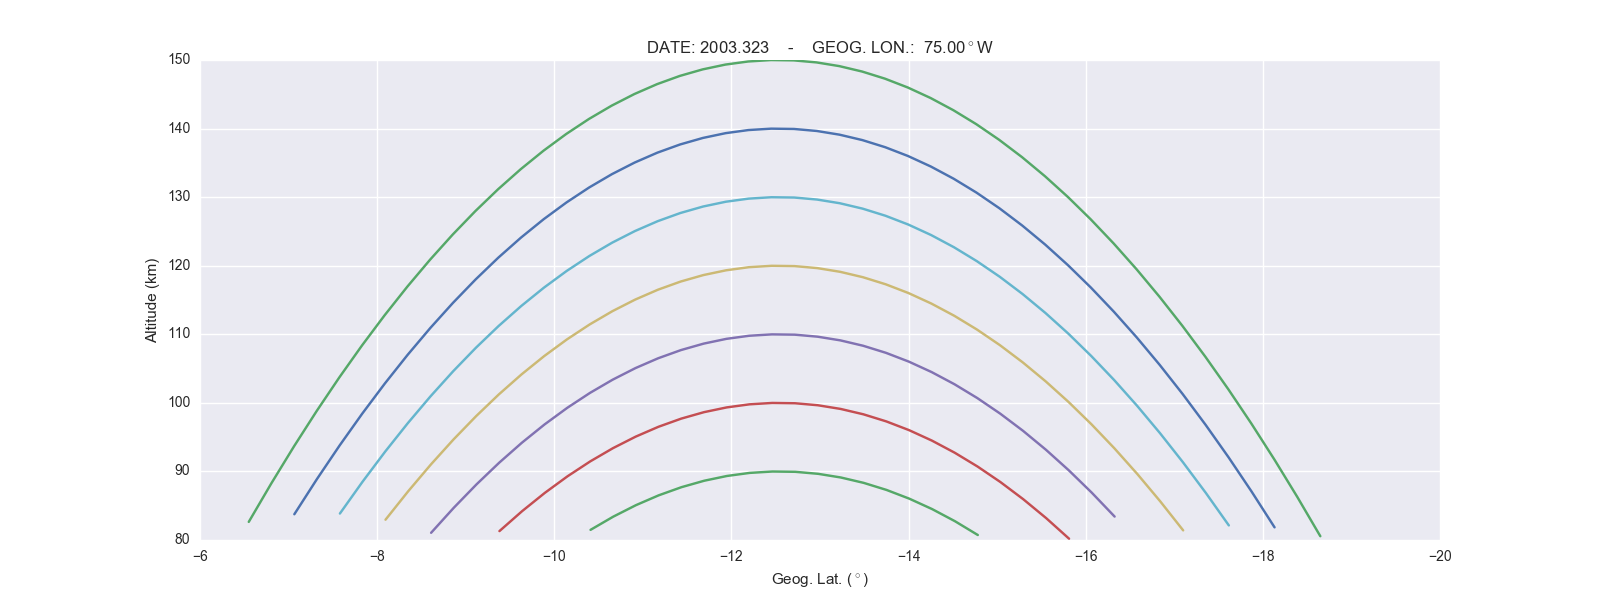
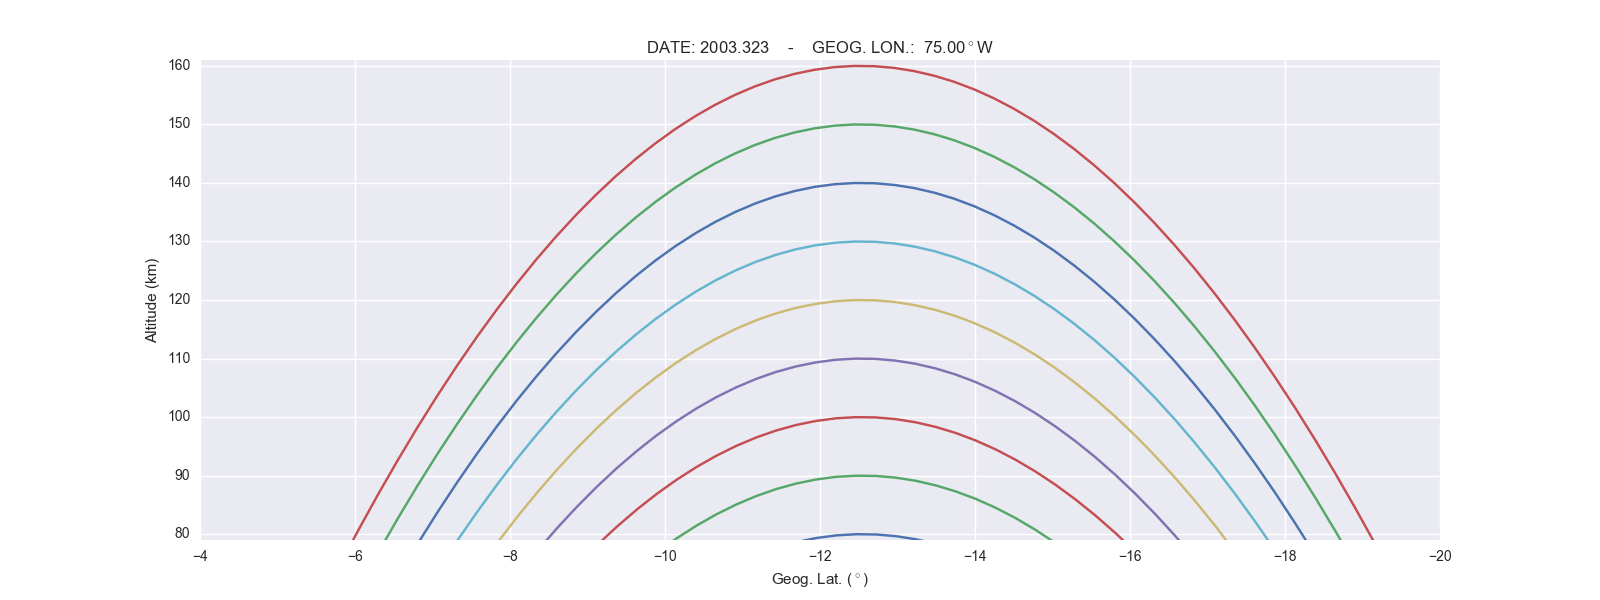
Lower Boundary correction

diff --git a/examples/example_pyapex.py b/examples/example_pyapex.py
@@ -19,21 +19,21 @@ if __name__ == '__main__':
 
         pn = f.add_subplot(111)
 
-        for h in arange(hlim[0], hlim[1], 10.):
+        for h in arange(hlim[0], hlim[1] + 10., 10.):
 
-            gc, qc = Obj.getFL(date=date, dlon=dlon, hateq=h, verbose=True)
+            gc, qc = Obj.getFL(date=date, dlon=dlon, hateq=h, verbose=False)
 
             x, y, z = gc['lat'], gc['alt'], gc['lon']
 
-            ind = where(y < hlim[0])
+            ind = where(y < (hlim[0] - 10.))
             if len(ind) > 0: x[ind], y[ind], z[ind] = nan, nan, nan
             pn.plot(x, y)
 
         strDate = 'DATE: {:4d}.{:03d}'.format(year, doy)
-        #strLoc = 'GEOG. LON.: {:6.2f}$^\circ$'.format(dlon)
         strLoc = 'GEOG. LON.: {:6.2f}$^\circ${:s}'.format(abs(dlon), 'E' if dlon > 0. else 'W') 
         title = '{:s}    -    {:s}'.format(strDate, strLoc)
         pn.set_title(title)
+        pn.set_ylim([hlim[0] - 1, hlim[1] + 1])
         pn.set_xlabel("Geog. Lat. ($^\circ$)")
         pn.set_ylabel("Altitude (km)")
         pn.invert_xaxis()

diff --git a/setup.py b/setup.py
@@ -20,15 +20,7 @@ ext1 = Extension( name='apex', \
         )
 
 
-# Geodetic to quasi-dipole coordinates
-#
-
-sources2 = []
-
-ext2 = None
-
-
-# Quasi-dipole to geodetic coordinates
+# Geodetic to Quasi-dipole to coordinates or viceversa
 #
 
 sources3 = []
@@ -43,7 +35,7 @@ ext3 = Extension( name='apexqd2gd', \
 if __name__ == '__main__':
 
     setup( name='pyapex', \
-        version='0.0.1', \
+        version='0.1.0', \
         author='Ronald Ilma', \
         author_email='rri5@cornell.edu', \
         description='Apex Model Apps', \

diff --git a/examples/example04.py b/examples/example04.py
@@ -2,9 +2,11 @@ if __name__ == '__main__':
 
     def example04():
 
+        """ Converts magnetic longitude to magnetic local time """
+
         from datetime import datetime
         from pyapex import Convert
-        
+
         print(Convert().mlon2mlt(69., datetime(1960,11,21,0,0,0)))
 
     example04()
